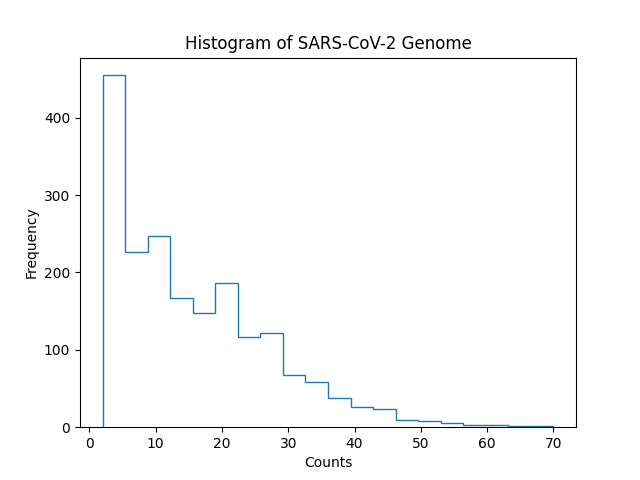
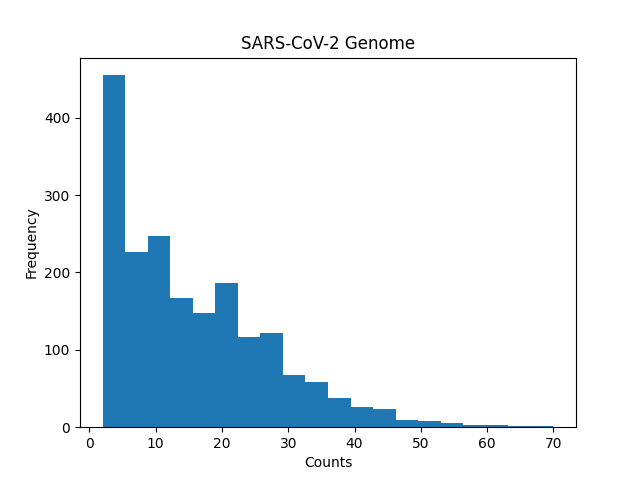
Now works with any sequence length

Changed region(s): [[0.1562, 0.1562, 0.7812, 0.9062], [0.2812, 0.0625, 0.75, 0.125]]

diff --git a/src/dna_hash/dna_hash.py b/src/dna_hash/dna_hash.py
@@ -1,15 +1,14 @@
 import math
 import sys
 
-import numpy as np
-
-from nptyping import NDArray
 from typing import Iterator, Tuple
 
 import okbloomer
 
+from dna_hash.tokenizers import Fragment
+
 class DNAHash(object):
-    """A specialized datastructure for counting short DNA sequences for use in Bioinformatics."""
+    """A specialized datastructure for counting DNA sequences for use in Bioinformatics."""
 
     UP_BIT = 1
 
@@ -22,44 +21,9 @@ class DNAHash(object):
 
     BITS_PER_BASE = max(BASE_ENCODE_MAP.values()).bit_length()
 
-    MAX_SEQUENCE_LENGTH = math.ceil(math.log(sys.maxsize, 2) / BITS_PER_BASE) - UP_BIT.bit_length()
+    MAX_FRAGMENT_LENGTH = math.ceil(math.log(sys.maxsize, 2) / BITS_PER_BASE) - UP_BIT.bit_length()
 
     BASE_DECODE_MAP = {encoding: base for base, encoding in BASE_ENCODE_MAP.items()}
-
-    @classmethod
-    def _encode(cls, sequence: str) -> int:
-        """Encode a variable-length sequence using the up2bit representation."""
-        m = len(sequence)
-
-        if m > cls.MAX_SEQUENCE_LENGTH:
-            raise ValueError('Sequence length must be less than'
-                + f' {cls.MAX_SEQUENCE_LENGTH}, {sequence} given.')
-
-        hash = cls.UP_BIT
-
-        for i in range(m - 1, -1, -1):
-            base = sequence[i]
-
-            if base not in cls.BASE_ENCODE_MAP:
-                raise ValueError(f'Invalid base {base} given in sequence {sequence}.')
-
-            hash <<= 2
-
-            hash += cls.BASE_ENCODE_MAP[base]
-
-        return hash
-
-    @classmethod
-    def _decode(cls, hash: int) -> str:
-        """Decode an up2bit hash into a variable-length sequence."""
-        sequence = ''
-
-        for i in range(0, int(math.log(hash, 2)), 2):
-            encoding = (hash >> i) & 3
-
-            sequence += cls.BASE_DECODE_MAP[encoding]
-
-        return sequence
 
     def __init__(self,
                 max_false_positive_rate: float = 0.01,
@@ -72,8 +36,9 @@ class DNAHash(object):
             layer_size=layer_size,
         )
 
-        self.counts: dict[int, int] = {}
+        self.counts: dict[Tuple[int, ...], int] = {}
         self.num_singletons = 0
+        self.tokenizer = Fragment(self.MAX_FRAGMENT_LENGTH)
 
     @property
     def num_sequences(self) -> int:
@@ -90,7 +55,7 @@ class DNAHash(object):
         """Return the total number of non-singleton sequences counted so far."""
         return sum(self.counts.values())
 
-    def insert(self, sequence: str, count: int = 1) -> None:
+    def insert(self, sequence: str, count: int) -> None:
         """Insert a sequence count into the hash table."""
         if count < 1:
             raise ValueError(f'Count cannot be less than 1, {count} given.')
@@ -98,12 +63,12 @@ class DNAHash(object):
         exists = self.filter.exists_or_insert(sequence)
 
         if count > 1:
-            hash = self._encode(sequence)
+            hashes = self._encode(sequence)
 
-            if exists and hash not in self.counts:
+            if exists and hashes not in self.counts:
                 self.num_singletons -= 1
 
-            self.counts[hash] = count
+            self.counts[hashes] = count
         
         elif not exists:
             self.num_singletons += 1
@@ -113,15 +78,15 @@ class DNAHash(object):
         exists = self.filter.exists_or_insert(sequence)
 
         if exists:
-            hash = self._encode(sequence)
+            hashes = self._encode(sequence)
 
-            if hash in self.counts:
-                self.counts[hash] += 1
+            if hashes in self.counts:
+                self.counts[hashes] += 1
             
             else:
                 self.num_singletons -= 1
 
-                self.counts[hash] = 2
+                self.counts[hashes] = 2
 
         else:
             self.num_singletons += 1
@@ -132,9 +97,9 @@ class DNAHash(object):
 
     def argmax(self) -> str:
         """Return the sequence with the highest count."""
-        hash, count = max(self.counts.items(), key=lambda item: item[1])
+        hashes, count = max(self.counts.items(), key=lambda item: item[1])
 
-        return self._decode(hash)
+        return self._decode(hashes)
 
     def get(self, sequence: str) ->int:
         """Return the count for a sequence."""
@@ -143,10 +108,10 @@ class DNAHash(object):
         if not exists:
             raise ValueError('Sequence not found in hash table.')
 
-        hash = self._encode(sequence)
+        hashes = self._encode(sequence)
 
-        if hash in self.counts:
-            return self.counts[hash]
+        if hashes in self.counts:
+            return self.counts[hashes]
 
         return 1
 
@@ -154,14 +119,44 @@ class DNAHash(object):
         """ Return the k sequences with the highest counts."""
         counts = sorted(self.counts.items(), key=lambda item: item[1], reverse=True)
 
-        for hash, count in counts[0:k]:
-            sequence = self._decode(hash)
+        for hashes, count in counts[0:k]:
+            sequence = self._decode(hashes)
 
             yield (sequence, count)
 
-    def histogram(self, bins: int = 10) -> Tuple[NDArray, NDArray]:
-        """Return a histogram of sequences bucketed by their counts."""
-        return np.histogram(list(self.counts.values()), bins=bins)
+    def _encode(self, sequence: str) -> Tuple[int, ...]:
+        """Encode a variable-length sequence using the up2bit representation."""
+        hashes = []
+
+        for fragment in self.tokenizer.tokenize(sequence):
+            n = len(fragment)
+
+            hash = self.UP_BIT
+
+            for i in range(n - 1, -1, -1):
+                base = fragment[i]
+
+                hash <<= 2
+                hash += self.BASE_ENCODE_MAP[base]
+
+            hashes.append(hash)
+
+        return tuple(hashes)
+
+    def _decode(self, hashes: Tuple[int, ...]) -> str:
+        """Decode an up2bit representation into a variable-length sequence."""
+        sequence = ''
+        
+        for hash in hashes:
+            if hash == self.UP_BIT:
+                continue
+
+            for i in range(0, int(math.log(hash, 2)), 2):
+                encoding = (hash >> i) & 3
+
+                sequence += self.BASE_DECODE_MAP[encoding]
+
+        return sequence
 
     def __setitem__(self, sequence: str, count: int) -> None:
         self.insert(sequence, count)

diff --git a/src/dna_hash/tokenizers.py b/src/dna_hash/tokenizers.py
@@ -15,11 +15,12 @@ class Tokenizer(ABC):
 class Kmer(Tokenizer):
     """Generates tokens of length k from reads."""
 
-    def __init__(self, k: int) -> None:
+    def __init__(self, k: int, skip_invalid: bool = False) -> None:
         if k < 1:
             raise ValueError(f'K cannot be less than 1, {k} given.')
 
         self.k = k
+        self.skip_invalid = skip_invalid
         self.invalid_base = re.compile(INVALID_BASE_REGEX)
         self.dropped = 0
 
@@ -33,17 +34,24 @@ class Kmer(Tokenizer):
             invalid_token = self.invalid_base.search(token)
 
             if invalid_token:
-                skip = 1 + invalid_token.start()
+                if not self.skip_invalid:
+                    offset = i + invalid_token.start()
+                
+                    raise ValueError('Invalid base detected at'
+                        + f' offset {offset} in sequence.')
 
-                i += skip
+                else:
+                    skip = 1 + invalid_token.start()
 
-                self.dropped += skip
+                    i += skip
 
-                continue
+                    self.dropped += skip
 
-            yield token
+                    continue
 
             i += 1
+            
+            yield token
 
 class Canonical(Tokenizer):
     """Tokenize sequences in their canonical form."""
@@ -83,24 +91,39 @@ class Canonical(Tokenizer):
 class Fragment(Tokenizer):
     """Generates a non-overlapping fragment of length n from a sequence."""
 
-    def __init__(self, n: int) -> None:
+    def __init__(self, n: int, skip_invalid: bool = False) -> None:
         if n < 1:
             raise ValueError(f'N must be greater than 1, {n} given.')
 
         self.n = n
+        self.skip_invalid = skip_invalid
         self.invalid_base = re.compile(INVALID_BASE_REGEX)
         self.dropped = 0
 
     def tokenize(self, sequence: str) -> Generator[str, None, None]:
-         """Tokenize the sequence."""
-         for i in range(0, len(sequence) - self.n, self.n):
+        """Tokenize the sequence."""
+        m = len(sequence)
+
+        if m < self.n:
+            yield sequence
+
+            return
+
+        for i in range(0, m, self.n):
             token = sequence[i:i + self.n]
 
             invalid_token = self.invalid_base.search(token)
 
             if invalid_token:
-                self.dropped += 1
+                if not self.skip_invalid:
+                    offset = i + invalid_token.start()
+                
+                    raise ValueError('Invalid base detected at'
+                        + f' offset {offset} in sequence.')
 
-                continue
+                else:
+                    self.dropped += 1
+
+                    continue
 
             yield token

diff --git a/tests/test_tokenizers.py b/tests/test_tokenizers.py
@@ -4,7 +4,7 @@ from dna_hash.tokenizers import Kmer, Canonical, Fragment
 
 class TestKmer(TestCase):
     def test_tokenize(self):
-        tokenizer = Kmer(k=6)
+        tokenizer = Kmer(k=6, skip_invalid=True)
 
         tokens = tokenizer.tokenize('CGGTTCAGCANG')
 
@@ -17,7 +17,7 @@ class TestKmer(TestCase):
 
 class TestCanonical(TestCase):
     def test_tokenize(self):
-        tokenizer = Canonical(Kmer(k=6))
+        tokenizer = Canonical(Kmer(k=6, skip_invalid=True))
 
         tokens = tokenizer.tokenize('CGGTTCAGCANG')
 
@@ -28,7 +28,7 @@ class TestCanonical(TestCase):
 
 class TestFragment(TestCase):
     def test_tokenize(self):
-        tokenizer = Fragment(n=4)
+        tokenizer = Fragment(n=4, skip_invalid=True)
 
         tokens = tokenizer.tokenize('CGGTTCAGCANGTAAT')
 

diff --git a/examples/covid.py b/examples/covid.py
@@ -13,10 +13,15 @@ with open('covid-19-virus.fasta', 'r') as file:
         for token in tokenizer.tokenize(str(record.seq)):
             hash_table.increment(token)
 
-counts, bins = hash_table.histogram(20)
+for sequence, count in hash_table.top(25):
+    print(f'{sequence}: {count}')
 
-plt.stairs(counts, bins)
-plt.title('Histogram of SARS-CoV-2 Genome')
+print(f'Total sequences: {hash_table.num_sequences}')
+print(f'# of unique sequences: {hash_table.num_unique_sequences}')
+print(f'# of singletons: {hash_table.num_singletons}')
+
+plt.hist(list(hash_table.counts.values()), bins=20)
+plt.title('SARS-CoV-2 Genome')
 plt.xlabel('Counts')
 plt.ylabel('Frequency')
 plt.show()

diff --git a/README.md b/README.md
@@ -1,13 +1,11 @@
 # DNA Hash
 
-A specialized datastructure and tokenization library for counting short DNA sequences for use in Bioinformatics. DNA Hash stores k-mer sequence counts by their up2bit encoding - a two-way hash that works with variable-length sequences. As such, DNA Hash uses considerably less memory than a lookup table that stores sequences in plaintext. In addition, DNA Hash's novel autoscaling Bloom filter eliminates the need to explicitly store counts for sequences that have only been seen once.
+A specialized datastructure and tokenization library for counting DNA sequences for use in Bioinformatics. DNA Hash stores k-mer sequence counts by their up2bit encoding - an efficient two-way hash that works with variable-length sequences. As such, DNA Hash uses considerably less memory than a lookup table that stores sequences in plaintext. In addition, DNA Hash's novel autoscaling Bloom filter eliminates the need to explicitly store singletons and makes it suitable for use on streaming data.
 
 - **Variable** sequence lengths
 - **Ultra-low** memory footprint
 - **Embarrassingly** parallelizable
 - **Open-source** and free to use commercially
-
-> **Note:** The maximum sequence length is platform dependent. On a 64-bit machine, the max length is 31. On a 32-bit machine, the max length is 15.
 
 > **Note:** Due to the probabilistic nature of the Bloom filter, DNA Hash may over count sequences at a bounded rate.
 
@@ -43,10 +41,8 @@ print(f'Total sequences: {hash_table.num_sequences}')
 print(f'# of unique sequences: {hash_table.num_unique_sequences}')
 print(f'# of singletons: {hash_table.num_singletons}')
 
-counts, bins = hash_table.histogram(20)
-
-plt.stairs(counts, bins)
-plt.title('Histogram of SARS-CoV-2 Genome')
+plt.hist(list(hash_table.counts.values()), bins=20)
+plt.title('SARS-CoV-2 Genome')
 plt.xlabel('Counts')
 plt.ylabel('Frequency')
 plt.show()
